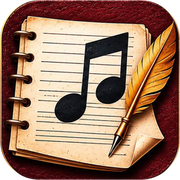
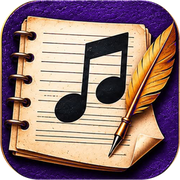
EZ Lyrics : retour au thème mauve, icône recolorée en violet (aperçu)
Claude-Session: https://claude.ai/code/session_01EAWoBbtk1y1wYHhqvcfYiF

diff --git a/ez-lyrics/index.html b/ez-lyrics/index.html
@@ -4,9 +4,9 @@
 <meta charset="utf-8">
 <meta name="viewport" content="width=device-width,initial-scale=1,viewport-fit=cover">
 <meta name="description" content="EZ Lyrics : colle une feuille d'accords, garde seulement les paroles et les sections pour le chanteur, puis télécharge un PDF propre. Par Tom Tom Music.">
-<link rel="icon" href="../img/apps/ez-lyrics-32.png?v=2">
-<link rel="apple-touch-icon" href="../img/apps/ez-lyrics-180.png?v=2">
-<meta property="og:image" content="https://tommusic.ca/img/apps/ez-lyrics-partage.jpg?v=2">
+<link rel="icon" href="../img/apps/ez-lyrics-32.png?v=3">
+<link rel="apple-touch-icon" href="../img/apps/ez-lyrics-180.png?v=3">
+<meta property="og:image" content="https://tommusic.ca/img/apps/ez-lyrics-partage.jpg?v=3">
 <style>body{margin:0}[hidden]{display:none!important}img{max-width:100%}</style>
 <link rel="canonical" href="https://tommusic.ca/ez-lyrics/">
 <meta property="og:type" content="website">
@@ -212,7 +212,7 @@ a.tab{text-decoration:none}
 <div class="app">
   <aside class="side">
     <div class="brand">
-      <img class="bico" src="../img/apps/ez-lyrics.webp?v=2" alt="" width="52" height="52">
+      <img class="bico" src="../img/apps/ez-lyrics.webp?v=3" alt="" width="52" height="52">
       <div class="word"><b>EZ</b> Lyrics</div>
     </div>
     <nav aria-label="Sections">

diff --git a/apps/index.html b/apps/index.html
@@ -74,7 +74,7 @@ footer{background:rgb(14 10 6/.6)}
         </div>
       </li>
       <li class="md">
-        <img class="appico" src="../img/apps/ez-lyrics.webp?v=2" alt="" width="96" height="96" loading="lazy">
+        <img class="appico" src="../img/apps/ez-lyrics.webp?v=3" alt="" width="96" height="96" loading="lazy">
         <div>
           <h3>EZ Lyrics</h3>
           <p class="caps meta"><span lang="fr">Gratuit · Dans le navigateur · En français</span><span lang="en">Free · In your browser · In French</span></p>
